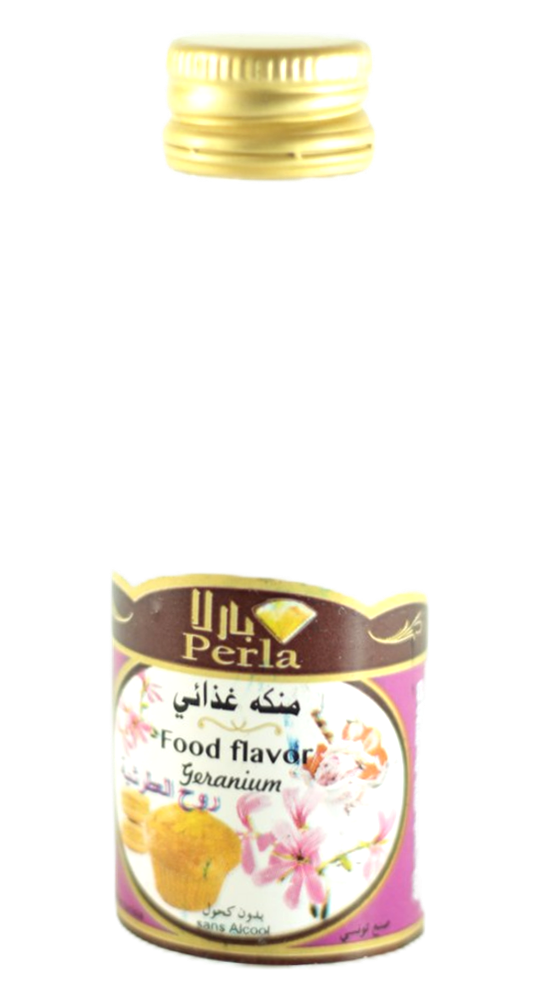
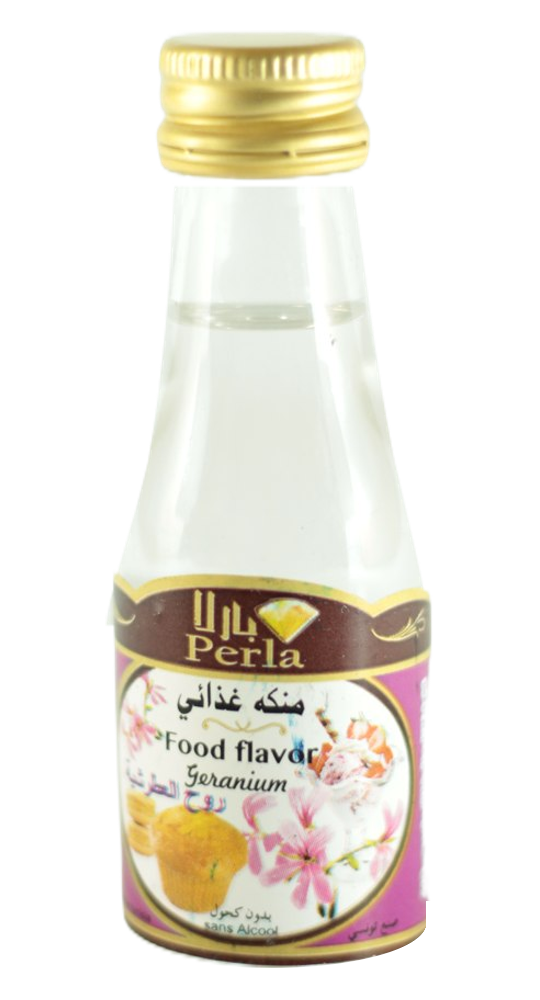
Enhance bottle exposure and clean bottom edge curves

Changed region(s): [[0.2074, 0.279, 0.8, 0.961], [0.2667, 0.031, 0.7111, 0.186], [0.4741, 0.186, 0.5037, 0.217]]

diff --git a/sw.js b/sw.js
@@ -1,5 +1,5 @@
 // Installable app: the storefront and product photos work offline; API calls (prices, stock, orders) always go to the network.
-const VERSION = 'ej-v28';
+const VERSION = 'ej-v29';
 const SHELL = ['/', '/styles.css', '/brand.css', '/cutouts.css', '/photography.css', '/store.css', '/retailer-data.js', '/photo-overrides.js', '/catalog.js', '/lang-en.js', '/app.js', '/store.js', '/assets/logo.png', '/assets/logo-perla.png', '/assets/favicon.png', '/manifest.webmanifest'];
 
 self.addEventListener('install', event => {
